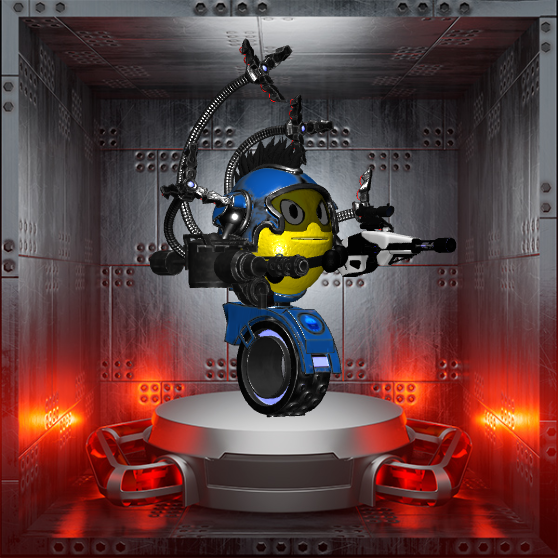
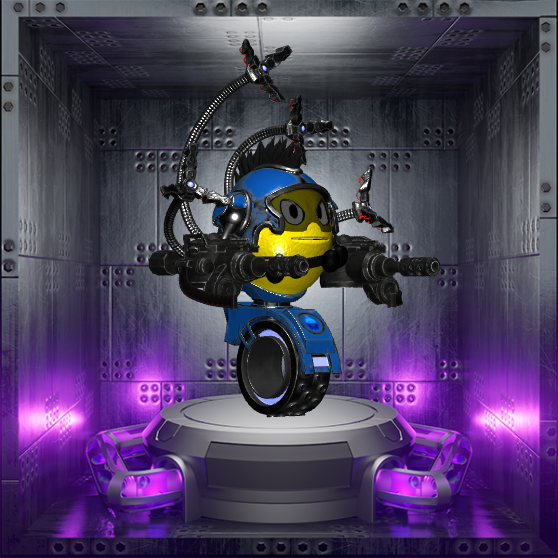
Update images

diff --git a/src/components/threejs/Lemon.svelte b/src/components/threejs/Lemon.svelte
@@ -8,6 +8,16 @@ import download from '../svg/download';
 
   const lemonSettings = Object.values(lemons)[nft.token_id % 4]
 
+  const backgrounds = [
+    '/img/postaments/red.jpg',
+    '/img/postaments/blue.jpg',
+    '/img/postaments/green.jpg',
+    '/img/postaments/lightblue.jpg',
+    '/img/postaments/orange.jpg',
+    '/img/postaments/purple.jpg',
+    '/img/postaments/yellow.jpg'
+  ]
+
   onMount(async () => {
     const { Model } = await import('$src/components/threejs/model')
     const model = new Model({
@@ -17,7 +27,7 @@ import download from '../svg/download';
         cam: 12,
         globalScale: 1,
         translateY: -1.27,
-        background: "/img/postaments/red.jpg",
+        background: backgrounds[nft.token_id % 7],
         lemonSettings
     })
     $threeStore.init(model)

diff --git a/src/routes/shop/items.svelte b/src/routes/shop/items.svelte
@@ -3,7 +3,7 @@
   import WeaponPreview from '$src/components/card/WeaponPreview.svelte'
   import TopMenu from '$src/components/filter/TopMenu.svelte'
 
-  let images = ["mix2a.png", "mix1a.png", "Big_optic2a.png", "Big_optic1a.png", "10a.png","9a.png","8a.png", "7a.png", "6a.png", "5a.png", "2a.png", "1a.png"]
+  let images = ["mix1a.png", "Big_optic2a.png", "Big_optic1a.png", "10a.png","9a.png","8a.png", "7a.png", "6a.png", "5a.png", "2a.png", "1a.png"]
 </script>
 
 <section class="catalog">

diff --git a/src/routes/kitchen/items.svelte b/src/routes/kitchen/items.svelte
@@ -3,7 +3,7 @@
   import WeaponPreview from '$src/components/card/WeaponPreview.svelte'
   import near from '$src/utils/near'
 
-  let images = ["mix2a.png", "Big_optic1a.png", "10a.png","9a.png","8a.png"]
+  let images = ["Big_optic1a.png", "10a.png","9a.png","8a.png"]
 </script>
 
 <style>
